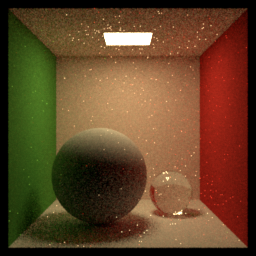
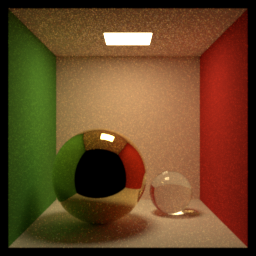
conductor complete

diff --git a/src/core/BSDF.h b/src/core/BSDF.h
@@ -10,9 +10,6 @@
 #include "core/Pacific.h"
 
 
-// TODO: add an `is_valid` to BSDFSample, so that when the sample is invalid,
-// like when the pdf is too small, we can just ignore it in the integrator.
-
 /// @brief BSDFSample object.
 struct BSDFSample {
     /// Outgoing direction in world space
@@ -30,6 +27,10 @@ enum class BSDFFlags {
     Delta = 1 << 0,  // delta distribution, i.e. perfect specular reflection/refraction
     TwoSided = 1 << 1
 };
+BSDFFlags operator|(BSDFFlags a, BSDFFlags b);
+BSDFFlags operator&(BSDFFlags a, BSDFFlags b);
+BSDFFlags& operator|=(BSDFFlags& a, BSDFFlags b);
+BSDFFlags& operator&=(BSDFFlags& a, BSDFFlags b);
 
 class BSDF {
 private:
@@ -39,36 +40,16 @@ public:
     BSDF(BSDFFlags flags) : flags(flags) {}
 
     /// @brief Compute the Fresnel reflection coefficient
-    /// @param cos_theta_i Cosine of the angle between the incident direction and the (effective)normal. Should be positive.
+    /// @param cos_theta_i Incoming angle cosine. Should be positive.
     /// @param eta Relative ior (eta_i over eta_t)
-    static Float fresnelReflection(Float cos_theta_i, Float eta) {
-        // Snell's law
-        Float sin2_theta_t = Sqr(eta) * (1 - Sqr(cos_theta_i));
-        if (sin2_theta_t >= 1)  // total internal reflection
-            return 1.0;
-        Float cos_theta_t = std::sqrt(std::abs(1.0 - sin2_theta_t));
+    static Float fresnelReflection(Float cos_theta_i, Float eta);
 
-        Float inv_eta = 1.0 / eta;
-        Float r_parl = (inv_eta * cos_theta_i - cos_theta_t) / (inv_eta * cos_theta_i + cos_theta_t);
-        Float r_perp = (cos_theta_i - inv_eta * cos_theta_t) / (cos_theta_i + inv_eta * cos_theta_t);
-        return (Sqr(r_parl) + Sqr(r_perp)) * 0.5;
-    }
+    /// @brief Compute the Fresnel reflection coefficient
+    /// @param cos_theta_i Incoming angle cosine, should be positive
+    /// @param eta Relative ior (eta_t over eta_i)
+    static Float fresnelComplex(Float cos_theta_i, std::complex<Float> eta);
 
-    // TODO: cos_theta_i must be positive
-    // Remark: eta is eta_t/eta_i
-    static Float fresnelComplex(Float cos_theta_i, Float eta, Float k) {
-        Float sin2Theta_i = 1.0 - Sqr(cos_theta_i);
-        std::complex<Float> sin2_theta_t = sin2Theta_i / Sqr(eta);
-        std::complex<Float> cos_theta_t = std::sqrt(Float(1.0) - sin2_theta_t);
-
-        std::complex<Float> r_parl = (eta * cos_theta_i - cos_theta_t) / (eta * cos_theta_i + cos_theta_t);
-        std::complex<Float> r_perp = (cos_theta_i - eta * cos_theta_t) / (cos_theta_i + eta * cos_theta_t);
-        return (std::norm(r_parl) + std::norm(r_perp)) / 2;
-    }
-
-    static Vec3f fresnelComplex(Float cos_theta_i, const Vec3f &eta, const Vec3f &k) {
-        return Vec3f(fresnelComplex(cos_theta_i, eta.x, k.x), fresnelComplex(cos_theta_i, eta.y, k.y), fresnelComplex(cos_theta_i, eta.z, k.z));
-    }
+    static Vec3f fresnelComplex(Float cos_theta_i, const Vec3f &eta, const Vec3f &k);
     
     /// @brief Sample the BSDF
     /// @param wi Incoming direction in local space (z is the normal direction). Facing the normal direction
@@ -89,7 +70,7 @@ public:
     virtual Float pdf(const Vec3f &wi, const Vec3f &wo) const = 0;
 
     bool has_flag(BSDFFlags flag) const {
-        return (static_cast<uint32_t>(flags) & static_cast<uint32_t>(flag)) != 0;
+        return (flags & flag) != BSDFFlags::None;
     }
 
     virtual std::string to_string() const = 0;

diff --git a/src/bsdf/conductor.cpp b/src/bsdf/conductor.cpp
@@ -1,0 +1,70 @@
+#include "core/BSDF.h"
+#include "core/Registry.h"
+#include "utils/Misc.h"
+
+// TODO: implement two-sided diffuse
+// Texture reflectance not supported
+class SmoothConductorBSDF final : public BSDF {
+public:
+    Vec3f eta, k;  // real and imaginary parts of IOR
+
+    SmoothConductorBSDF(BSDFFlags flags, const Vec3f &eta, const Vec3f &k) : BSDF(flags), eta(eta), k(k) {}
+
+    Vec3f eval(const Vec3f &wi, const Vec3f &wo) const override {
+        return Vec3f{0.0};
+    }
+
+    Float pdf(const Vec3f &wi, const Vec3f &wo) const override {
+        return 0.0;
+    }
+
+    std::pair<BSDFSample, Vec3f> sample(const Vec3f &wi, Float sample1, const Vec2f &sample2) const override {
+        // TODO: handle two-sided BSDFs
+        if (wi.z <= 0.0 && !this->has_flag(BSDFFlags::TwoSided))
+            return {BSDFSample{Vec3f{0.0}, 0.0, 1.0}, Vec3f{0.0}};
+        Vec3f bsdf_value = fresnelComplex(std::abs(wi.z), eta, k);
+        
+        // TODO: is eta correct? should it be 1?
+        return {BSDFSample{Vec3f{-wi.x, -wi.y, wi.z}, 1.0, 1.0}, bsdf_value};
+    }
+
+    std::string to_string() const override {
+        std::ostringstream oss;
+        oss << "BSDF(SmoothConductor): [ eta=" << eta << ", k=" << k << " ]";
+        return oss.str();
+    }
+};
+
+// --------------------------- Registry functions ---------------------------
+BSDF *createSmoothConductorBSDF(const std::unordered_map<std::string, std::string> &properties) {
+    // Cu(Copper)
+    Vec3f eta{0.271, 0.676, 1.316};
+    Vec3f k{3.609, 2.624, 2.292};
+    BSDFFlags flags = BSDFFlags::Delta;
+    
+    for (const auto &[key, value] : properties) {
+        if (key == "material") {
+            throw std::runtime_error("SmoothConductorBSDF: named material not supported");
+        } else if (key == "eta") {
+            eta = strToVec3f(value);
+        } else if (key == "k") {
+            k = strToVec3f(value);
+        } else if (key == "twosided" && (value == "true" || value == "1")) {
+            flags |= BSDFFlags::TwoSided;
+        } else {
+            throw std::runtime_error("SmoothConductorBSDF: Unknown property " + key);
+        }
+    }
+
+    return new SmoothConductorBSDF(flags, eta, k);
+}
+
+namespace {
+struct SmoothConductorBSDFRegistrar {
+    SmoothConductorBSDFRegistrar() {
+        BSDFRegistry::registerBSDF("conductor", createSmoothConductorBSDF);
+    }
+};
+
+static SmoothConductorBSDFRegistrar registrar;
+}  // namespace

diff --git a/src/core/BSDF.cpp b/src/core/BSDF.cpp
@@ -1,0 +1,42 @@
+#include "core/BSDF.h"
+
+// Bitwise operators for BSDFFlags
+BSDFFlags operator|(BSDFFlags a, BSDFFlags b) {
+    return static_cast<BSDFFlags>(static_cast<uint32_t>(a) | static_cast<uint32_t>(b));
+}
+BSDFFlags operator&(BSDFFlags a, BSDFFlags b) {
+    return static_cast<BSDFFlags>(static_cast<uint32_t>(a) & static_cast<uint32_t>(b));
+}
+BSDFFlags& operator|=(BSDFFlags& a, BSDFFlags b) {
+    return a = a | b;
+}
+BSDFFlags& operator&=(BSDFFlags& a, BSDFFlags b) {
+    return a = a & b;
+}
+
+Float BSDF::fresnelReflection(Float cos_theta_i, Float eta) {
+    // Snell's law
+    Float sin2_theta_t = Sqr(eta) * (1 - Sqr(cos_theta_i));
+    if (sin2_theta_t >= 1)  // total internal reflection
+        return 1.0;
+    Float cos_theta_t = std::sqrt(std::abs(1.0 - sin2_theta_t));
+
+    Float inv_eta = 1.0 / eta;
+    Float r_parl = (inv_eta * cos_theta_i - cos_theta_t) / (inv_eta * cos_theta_i + cos_theta_t);
+    Float r_perp = (cos_theta_i - inv_eta * cos_theta_t) / (cos_theta_i + inv_eta * cos_theta_t);
+    return (Sqr(r_parl) + Sqr(r_perp)) * 0.5;
+}
+
+Float BSDF::fresnelComplex(Float cos_theta_i, std::complex<Float> eta) {
+    Float sin2Theta_i = 1.0 - Sqr(cos_theta_i);
+    std::complex<Float> sin2_theta_t = sin2Theta_i / Sqr(eta);
+    std::complex<Float> cos_theta_t = std::sqrt(Float(1.0) - sin2_theta_t);
+
+    std::complex<Float> r_parl = (eta * cos_theta_i - cos_theta_t) / (eta * cos_theta_i + cos_theta_t);
+    std::complex<Float> r_perp = (cos_theta_i - eta * cos_theta_t) / (cos_theta_i + eta * cos_theta_t);
+    return (std::norm(r_parl) + std::norm(r_perp)) / 2;
+}
+
+Vec3f BSDF::fresnelComplex(Float cos_theta_i, const Vec3f& eta, const Vec3f& k) {
+    return Vec3f(fresnelComplex(cos_theta_i, std::complex<Float>{eta.x, k.x}), fresnelComplex(cos_theta_i, std::complex<Float>{eta.y, k.y}), fresnelComplex(cos_theta_i, std::complex<Float>{eta.z, k.z}));
+}

diff --git a/src/core/Emitter.h b/src/core/Emitter.h
@@ -12,20 +12,24 @@ enum class EmitterFlags {
     AREA = 1 << 1,
     DELTA_DIRECTION = 1 << 2
 };
+EmitterFlags operator|(EmitterFlags a, EmitterFlags b);
+EmitterFlags operator&(EmitterFlags a, EmitterFlags b);
+EmitterFlags& operator|=(EmitterFlags& a, EmitterFlags b);
+EmitterFlags& operator&=(EmitterFlags& a, EmitterFlags b);
 
-// TODO: change the position member to dirn
+
 struct EmitterSample {
     Float pdf;
     // direction towards the shading point
     Vec3f direction;
     // Whether there's an occlusion between the isc and the emitter sample point
     // Remark: This does not handle whether the isc.normal is in the correct side
-    bool is_valid;
+    bool is_occluded;
     Vec3f radiance;
     EmitterFlags emitter_flags;
 
-    EmitterSample(Float pdf, const Vec3f &direction, bool is_valid, const Vec3f &radiance, EmitterFlags emitter_flags)
-        : pdf(pdf), direction(direction), is_valid(is_valid), radiance(radiance), emitter_flags(emitter_flags) {}
+    EmitterSample(Float pdf, const Vec3f &direction, bool is_occluded, const Vec3f &radiance, EmitterFlags emitter_flags)
+        : pdf(pdf), direction(direction), is_occluded(is_occluded), radiance(radiance), emitter_flags(emitter_flags) {}
 };
 
 class Emitter {

diff --git a/src/bsdf/diffuse.cpp b/src/bsdf/diffuse.cpp
@@ -12,7 +12,6 @@ public:
     DiffuseBSDF(BSDFFlags flags, const Vec3f &reflectance, bool cosine_sampling) : BSDF(flags), reflectance(reflectance), cosine_sampling(cosine_sampling) {}
 
     Vec3f eval(const Vec3f &wi, const Vec3f &wo) const override {
-        // TODO: what about two-sided BSDFs
         if (wi.z * wo.z <= 0.0)
             return Vec3f{0.0};
         return InvPi * std::abs(wo.z) * reflectance;
@@ -28,7 +27,6 @@ public:
     }
 
     std::pair<BSDFSample, Vec3f> sample(const Vec3f &wi, Float sample1, const Vec2f &sample2) const override {
-        // TODO: what about the two-sided BSDF
         if (cosine_sampling) {
             Vec3f wo = cosineHemisphereSample(sample2);
             if (wi.z < 0.0 && this->has_flag(BSDFFlags::TwoSided))

diff --git a/src/integrators/path.cpp b/src/integrators/path.cpp
@@ -33,7 +33,7 @@ public:
             if (!curr_isc.shape->bsdf->has_flag(BSDFFlags::Delta)) {
                 if (curr_isc.shape->bsdf->has_flag(BSDFFlags::TwoSided) || glm::dot(curr_isc.normal, curr_isc.dirn) > 0.0) {
                     EmitterSample emitter_sample = scene->sample_emitter(curr_isc, sampler->get_1D(), sampler->get_3D());
-                    if (emitter_sample.is_valid) {
+                    if (emitter_sample.is_occluded) {
                         Vec3f wo_local = worldToLocal(-emitter_sample.direction, curr_isc.normal);
                         Vec3f wi_local = worldToLocal(curr_isc.dirn, curr_isc.normal);
                         Vec3f bsdf_value = curr_isc.shape->bsdf->eval(wi_local, wo_local);

diff --git a/src/geometry/sphere.cpp b/src/geometry/sphere.cpp
@@ -98,10 +98,9 @@ public:
     }
 
     Vec3f get_normal(const Vec3f &position) const override {
-        Vec3f local_position = Vec3f{inv_transform * Vec4f{position, 1.0}};
-        Vec3f local_normal = local_position - center;
-        Vec3f normal = Vec3f{glm::transpose(inv_transform) * Vec4f{local_normal, 0.0}};
-        return glm::normalize(normal);
+        Vec3f world_center = Vec3f{transform * Vec4f{center, 1.0}};
+        Vec3f normal = glm::normalize(position - world_center);
+        return flip_normals ? -normal : normal;
     }
 
     Float area() const override {

diff --git a/src/integrators/direct.cpp b/src/integrators/direct.cpp
@@ -33,7 +33,7 @@ public:
         if (isc.shape->bsdf->has_flag(BSDFFlags::TwoSided) || glm::dot(isc.normal, isc.dirn) > 0.0)
             for (size_t i = 0; i < emitter_samples; i++) {
                 EmitterSample emitter_sample = scene->sample_emitter(isc, sampler->get_1D(), sampler->get_3D());
-                if (emitter_sample.is_valid) {
+                if (emitter_sample.is_occluded) {
                     // TODO: check for correct orientation of isc
                     
                     Vec3f wo_local = worldToLocal(-emitter_sample.direction, isc.normal);

diff --git a/src/core/Emitter.cpp b/src/core/Emitter.cpp
@@ -1,0 +1,15 @@
+#include "core/Emitter.h"
+
+// Bitwise operators for EmitterFlags
+EmitterFlags operator|(EmitterFlags a, EmitterFlags b) {
+    return static_cast<EmitterFlags>(static_cast<uint32_t>(a) | static_cast<uint32_t>(b));
+}
+EmitterFlags operator&(EmitterFlags a, EmitterFlags b) {
+    return static_cast<EmitterFlags>(static_cast<uint32_t>(a) & static_cast<uint32_t>(b));
+}
+EmitterFlags& operator|=(EmitterFlags& a, EmitterFlags b) {
+    return a = a | b;
+}
+EmitterFlags& operator&=(EmitterFlags& a, EmitterFlags b) {
+    return a = a & b;
+}

diff --git a/src/core/Integrator.cpp b/src/core/Integrator.cpp
@@ -97,7 +97,7 @@ void SamplingIntegrator::render(const Scene *scene, Sensor *sensor, uint32_t n_t
 }
 
 Float SamplingIntegrator::get_mis_weight_nee(const Intersection &isc, const EmitterSample &emitter_sample) const {
-    if (emitter_sample.emitter_flags == EmitterFlags::DELTA_DIRECTION)
+    if ((emitter_sample.emitter_flags & EmitterFlags::DELTA_DIRECTION) != EmitterFlags::NONE)
         return 1.0;
     if (!isc.shape->bsdf->has_flag(BSDFFlags::Delta)) {
         Vec3f wi_local = worldToLocal(isc.dirn, isc.normal);

diff --git a/src/utils/SceneParser.h b/src/utils/SceneParser.h
@@ -523,6 +523,8 @@ private:
             } else if (child_name == "matrix") {
                 Mat4f matrix;
                 std::string value = child.attribute("value").value();
+                // replace commas if any
+                value = std::regex_replace(value, std::regex(","), " ");
                 std::istringstream iss(value);
 
                 // matrix is column-major
